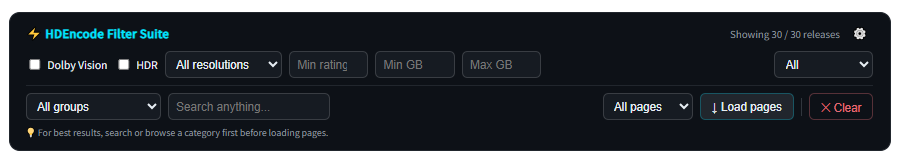
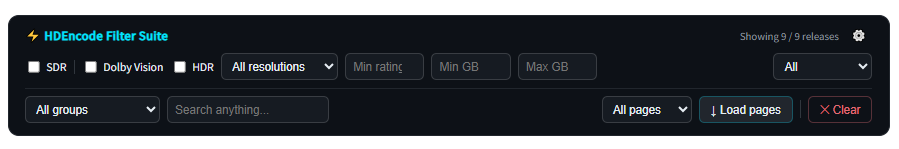
Release v1.6
## What's new in v1.6

### 🎨 SDR filter
- New SDR checkbox to show only releases without Dolby Vision or HDR
- Enabling SDR automatically disables and greys out the DV and HDR checkboxes to prevent conflicting filter states
- Conflicting saved state (e.g. SDR + HDR both saved) is resolved automatically on load — SDR wins

### Full changelog
See README for the complete changelog.

diff --git a/hdencode-filter-suite.user.js b/hdencode-filter-suite.user.js
@@ -1,7 +1,7 @@
 // ==UserScript==
 // @name         HDEncode Filter Suite
 // @namespace    https://hdencode.org/
-// @version      1.5
+// @version      1.6
 // @description  A Tampermonkey userscript that adds powerful filtering, searching and multi-page loading to HDEncode.org
 // @author       mikeymuis
 // @homepage     https://github.com/mikeymuis/hdencode-filter-suite
@@ -24,7 +24,7 @@
     // ─── Script constants ─────────────────────────────────────────────────────
 
     const SCRIPT_NAME    = 'HDEncode Filter Suite';
-    const SCRIPT_VERSION = '1.5';
+    const SCRIPT_VERSION = '1.6';
     const SCRIPT_ID      = 'hdencode-filter-suite';
 
     // ─── Helpers: item data extraction ───────────────────────────────────────
@@ -131,6 +131,7 @@
 
     function getFilterValues() {
         return {
+            onlySDR:   document.getElementById('f-sdr')?.checked || false,
             onlyDV:    document.getElementById('f-dv')?.checked || false,
             onlyHDR:   document.getElementById('f-hdr')?.checked || false,
             res:       document.getElementById('f-res')?.value || '',
@@ -144,6 +145,7 @@
     }
 
     function itemMatchesFilters(item, f) {
+        if (f.onlySDR && (hasDV(item) || hasHDR(item))) return false;
         if (f.onlyDV && !hasDV(item)) return false;
         if (f.onlyHDR && !hasHDR(item)) return false;
         if (f.res && getResolution(item) !== f.res) return false;
@@ -185,7 +187,7 @@
 
         if (visible === 0 && items.length > 0) {
             const hasActiveFilters =
-                f.onlyDV || f.onlyHDR || f.res || f.category ||
+                f.onlySDR || f.onlyDV || f.onlyHDR || f.res || f.category ||
                 f.minRating > 0 || f.minSize > 0 || f.maxSize < Infinity ||
                 f.group || f.search;
 
@@ -211,6 +213,7 @@
     // These are the filter IDs the user can choose to persist or not.
     // The key is the element ID, the value is a human-readable label.
     const PERSISTABLE_FILTERS = {
+        'f-sdr':       'SDR',
         'f-dv':        'Dolby Vision',
         'f-hdr':       'HDR',
         'f-res':       'Resolution',
@@ -267,6 +270,35 @@
         } catch (_) {}
     }
 
+    function syncDynamicRangeState() {
+        const sdr = document.getElementById('f-sdr');
+        const hdr = document.getElementById('f-hdr');
+        const dv  = document.getElementById('f-dv');
+        if (!sdr || !hdr || !dv) return;
+
+        if (sdr.checked) {
+            hdr.checked  = false;
+            dv.checked   = false;
+            hdr.disabled = true;
+            dv.disabled  = true;
+            hdr.parentElement.style.opacity = '0.4';
+            dv.parentElement.style.opacity  = '0.4';
+            hdr.parentElement.style.cursor  = 'not-allowed';
+            dv.parentElement.style.cursor   = 'not-allowed';
+            hdr.title = 'Disabled when SDR is active';
+            dv.title  = 'Disabled when SDR is active';
+        } else {
+            hdr.disabled = false;
+            dv.disabled  = false;
+            hdr.parentElement.style.opacity = '';
+            dv.parentElement.style.opacity  = '';
+            hdr.parentElement.style.cursor  = '';
+            dv.parentElement.style.cursor   = '';
+            hdr.title = '';
+            dv.title  = '';
+        }
+    }
+
     function clearFilters(container) {
         for (const el of document.querySelectorAll(`#${SCRIPT_ID}-bar input, #${SCRIPT_ID}-bar select`)) {
             if (el.id.startsWith('fs-persist-')) continue; // never touch settings checkboxes
@@ -276,6 +308,7 @@
             else el.value = '';
         }
         try { localStorage.removeItem('hdencodeFilters'); } catch (_) {}
+        syncDynamicRangeState();
         applyFilters(container);
     }
 
@@ -661,10 +694,15 @@
             <div style="display:flex; align-items:center; justify-content:space-between; flex-wrap:wrap; gap:8px; margin-bottom:8px;">
                 <div style="display:flex; align-items:center; gap:8px; flex-wrap:wrap;">
                     <label style="display:flex; align-items:center; gap:4px; cursor:pointer; white-space:nowrap;">
+                        <input type="checkbox" id="f-sdr" style="accent-color:#00e5ff;">
+                        <span>SDR</span>
+                    </label>
+                    <div style="width:1px; height:16px; background:#30363d;"></div>
+                    <label style="display:flex; align-items:center; gap:4px; cursor:pointer; white-space:nowrap;" id="f-dv-label">
                         <input type="checkbox" id="f-dv" style="accent-color:#00e5ff;">
                         <span>Dolby Vision</span>
                     </label>
-                    <label style="display:flex; align-items:center; gap:4px; cursor:pointer;">
+                    <label style="display:flex; align-items:center; gap:4px; cursor:pointer;" id="f-hdr-label">
                         <input type="checkbox" id="f-hdr" style="accent-color:#00e5ff;">
                         <span>HDR</span>
                     </label>
@@ -976,12 +1014,21 @@
             }
         });
 
+        const sdrEl = document.getElementById('f-sdr');
+        if (sdrEl) {
+            sdrEl.addEventListener('change', () => {
+                syncDynamicRangeState();
+                applyFilters(container);
+            });
+        }
+
         for (const el of bar.querySelectorAll('input, select')) {
             el.addEventListener('input', () => applyFilters(container));
         }
 
         buildGroupDropdown(container);
         loadFilters();
+        syncDynamicRangeState();
         applyFilters(container);
         injectLinkButtons(container);
         updateRecommendedHint();

diff --git a/README.md b/README.md
@@ -1,6 +1,6 @@
 # HDEncode Filter Suite
 
-![Version](https://img.shields.io/badge/version-1.5-00e5ff?style=flat-square)
+![Version](https://img.shields.io/badge/version-1.6-00e5ff?style=flat-square)
 ![License](https://img.shields.io/badge/license-MIT-green?style=flat-square)
 ![Tampermonkey](https://img.shields.io/badge/Tampermonkey-required-orange?style=flat-square)
 ![Domains](https://img.shields.io/badge/works%20on-hdencode.org%20%7C%20.com%20%7C%20.ro-blue?style=flat-square)
@@ -15,6 +15,7 @@ HDEncode is a great source for releases of all kinds, movies, TV shows, TV packs
 
 **Filtering**
 - Dolby Vision & HDR: quickly isolate releases by HDR format
+- SDR: filter to releases without any HDR format — enabling SDR automatically disables the DV and HDR filters
 - Resolution: filter by 2160p, 1080p or 720p
 - Content type: separate Movies, TV Shows and TV Packs
 - Minimum IMDb rating
@@ -164,6 +165,11 @@ This project takes time to maintain and keep up to date. If it saves you time an
 ---
 
 ## Changelog
+
+### v1.6
+- Added SDR filter checkbox — shows only releases without Dolby Vision or HDR
+- Enabling SDR automatically disables and greys out the DV and HDR checkboxes to prevent conflicting filter states
+- Conflicting saved state (e.g. SDR + HDR both saved) is resolved automatically on load — SDR wins
 
 ### v1.5
 - Added ⚙ settings panel via a gear icon in the filter bar header
